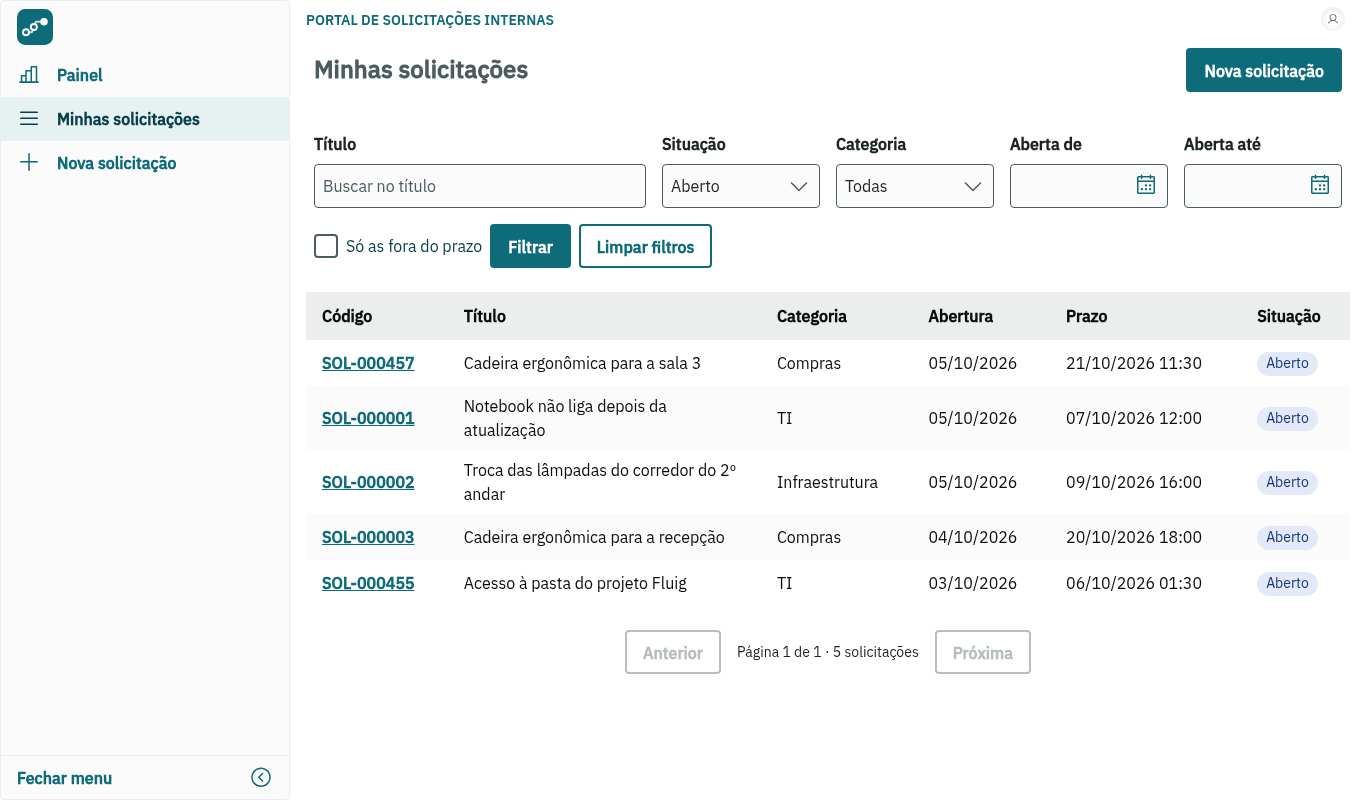
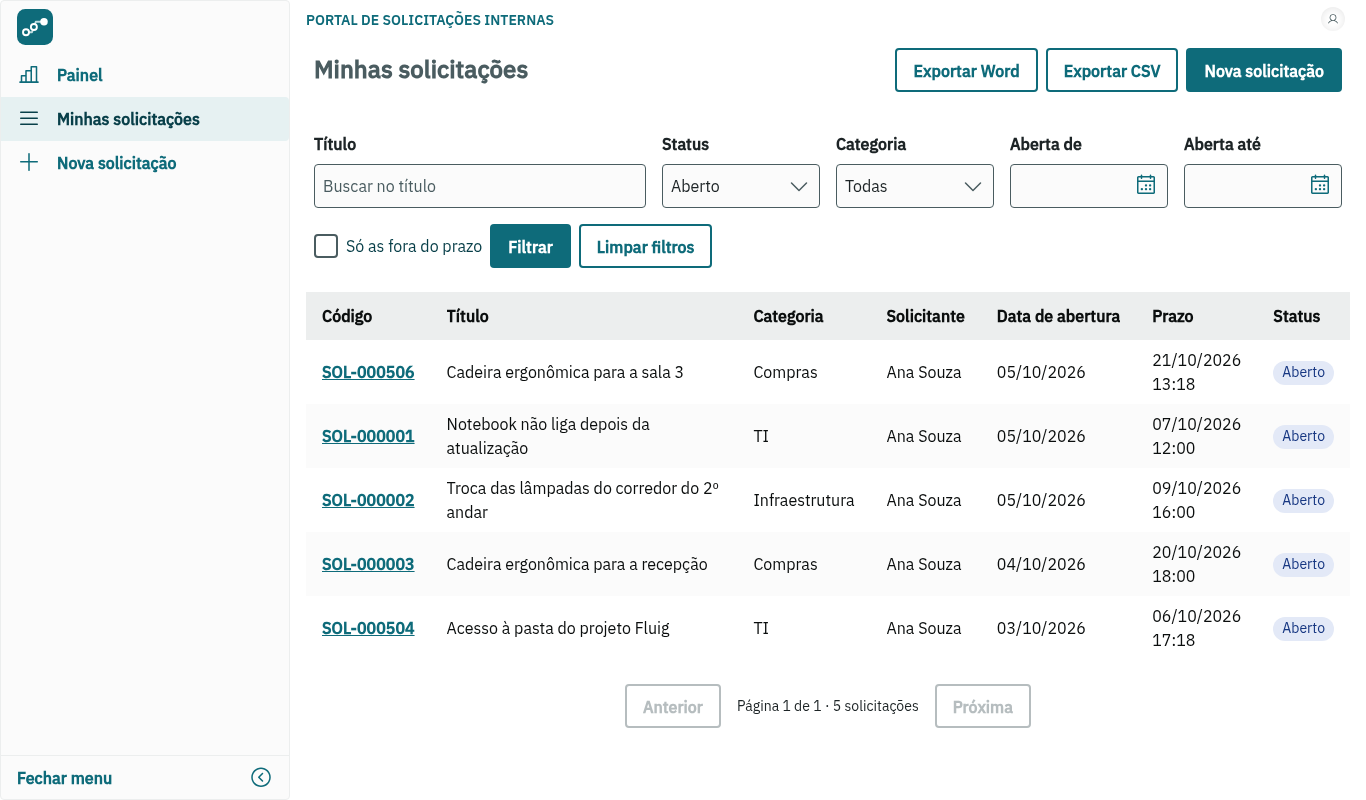
docs: name the README sections after the assignment and state the impact of each technology
README com Pré-requisitos, Instalação, Configuração, Execução e Acesso; memorial com o impacto de cada tecnologia na manutenção ou na produtividade; evidências refeitas.

diff --git a/docs/memorial-tecnico.md b/docs/memorial-tecnico.md
@@ -40,20 +40,22 @@ As dependências escolhidas à mão têm versão exata no `package.json`.
 
 ## 3. Justificativa técnica
 
-- **TypeScript e Node.js 24 (LTS)**: uma linguagem na API e no frontend permite compartilhar schemas e tipos. C# e Java trariam um segundo ecossistema e o contrato duplicado.
-- **NestJS**: o enunciado avalia camadas, e ele traz módulo, controller, service, injeção de dependência, guards e filtros; em Express eu montaria isso sozinho. Na versão 12 o schema Zod passa em `@Body({ schema })` e gera o Swagger.
-- **PostgreSQL**: o enunciado pede banco SQL, e ele oferece o que a modelagem usa (`CHECK`, `citext`, `timestamptz`), sem licença. MySQL e SQL Server também serviriam.
-- **Prisma**: gera migrações `.sql` versionadas, que são os scripts de criação pedidos, e tipos das consultas, então coluna errada vira erro de compilação. Descartei o TypeORM (domínio e persistência misturados em decorators) e o Drizzle (sem 1.0 estável). SQL à mão só nas migrações, onde ficam os `CHECK`. Os tempos médios são calculados no TypeScript, com a função de horas úteis do prazo.
-- **Zod em `shared/`**: API e formulário validam com o mesmo schema e a mesma mensagem; o `class-validator` só roda no backend. Os limites são constantes (`TITLE_MAX`, `DESCRIPTION_MAX`) lidas por API, formulário e Swagger; o `CHECK` repete os números.
-- **Sessão no servidor, cookie HttpOnly e Argon2id**: com token opaco e tabela `sessions`, apagada a linha o token morre. JWT exigiria lista de revogados (já é sessão no servidor) e, no `localStorage`, ficaria ao alcance de qualquer script. Argon2id com os mínimos da OWASP (19 MiB, 2 iterações), no lugar do bcrypt.
-- **Helmet, Luxon, morgan**: cabeçalhos de segurança; fusos nas contas do prazo e do filtro por período; log de acesso.
-- **Limite de tentativas próprio** (`auth/login-throttle.ts`) em vez do `@nestjs/throttler`, que conta toda requisição: num escritório com um IP só, a sexta pessoa a entrar no minuto seria bloqueada. Aqui só erros contam, na tabela `login_failures`, valendo para todas as instâncias.
-- **Swagger** em `/api/docs`, gerado dos schemas Zod; desligado com `SWAGGER_ENABLED=false` em ambiente exposto.
-- **Angular**: citado na vaga e base do PO UI; traz roteamento, formulários, HTTP e injeção de dependência, sem montar o conjunto como em React. Usei componentes standalone, signals e Reactive Forms. Fiquei na 21 porque o PO UI não suporta a 22.
-- **PO UI**: biblioteca da TOTVS, usada em todas as telas. O custo é o tamanho: 3,6 MB no pacote inicial, cerca de 700 kB com gzip. O visual vem das variáveis CSS do tema (`src/styles.scss`). Corrigi os defeitos de acessibilidade por cima, com ARIA e diretivas (`core/po-a11y.ts`, `core/field-a11y.ts`), sem trocar componente.
-- **Vitest, Supertest, Testcontainers**: o Vitest é o padrão do NestJS 12 e do Angular 21. Os e2e sobem um PostgreSQL 18 descartável com as migrações reais, em vez de banco em memória ou mocks do Prisma; o custo é precisar do Docker.
-- **Biome, angular-eslint, Prettier**: o Biome cobre backend e `shared/`, mas não analisa templates do Angular, onde uso angular-eslint e Prettier. O workspace pnpm mantém os três pacotes com comando único de lint, tipos, testes e build.
-- **Docker Compose e nginx**: o `compose.yaml` sobe banco, depois API (migrações e seed; a verificação de saúde dá até dois minutos) e depois web. O nginx serve o frontend com gzip, encaminha `/api` (mesma origem) e dá cache de um ano aos `.js` e `.css` com hash. Portas só em `127.0.0.1`; a API não publica porta.
+Para cada tecnologia: motivo da escolha, benefício neste projeto, alternativa descartada e impacto na manutenção, na escalabilidade ou na produtividade.
+
+- **TypeScript e Node.js 24 (LTS)**: uma linguagem na API e no frontend permite compartilhar schemas e tipos. C# e Java trariam um segundo ecossistema e o contrato duplicado. Impacto: um erro de contrato entre API e tela aparece na compilação, não em uso.
+- **NestJS**: o enunciado avalia camadas, e ele traz módulo, controller, service, injeção de dependência, guards e filtros; em Express eu montaria isso sozinho. Na versão 12 o schema Zod passa em `@Body({ schema })` e gera o Swagger. Impacto na manutenção: quem conhece o framework acha cada coisa no lugar esperado.
+- **PostgreSQL**: o enunciado pede banco SQL, e ele oferece o que a modelagem usa (`CHECK`, `citext`, `timestamptz`), sem licença. MySQL e SQL Server também serviriam. Impacto: as regras valem até para quem grava direto por SQL, e o banco escala bem além do volume deste portal.
+- **Prisma**: gera migrações `.sql` versionadas, que são os scripts de criação pedidos, e tipos das consultas, então coluna errada vira erro de compilação. Descartei o TypeORM (domínio e persistência misturados em decorators) e o Drizzle (sem 1.0 estável). SQL à mão só nas migrações, onde ficam os `CHECK`. Os tempos médios são calculados no TypeScript, com a função de horas úteis do prazo. Impacto: toda mudança de schema vira uma migração versionada, que dá para revisar.
+- **Zod em `shared/`**: API e formulário validam com o mesmo schema e a mesma mensagem; o `class-validator` só roda no backend. Os limites são constantes (`TITLE_MAX`, `DESCRIPTION_MAX`) lidas por API, formulário e Swagger; o `CHECK` repete os números. Impacto na manutenção: cada regra de validação muda em um lugar só.
+- **Sessão no servidor, cookie HttpOnly e Argon2id**: com token opaco e tabela `sessions`, apagada a linha o token morre. JWT exigiria lista de revogados (já é sessão no servidor) e, no `localStorage`, ficaria ao alcance de qualquer script. Argon2id com os mínimos da OWASP (19 MiB, 2 iterações), no lugar do bcrypt. Impacto: encerrar um acesso é apagar uma linha; o custo é uma consulta ao banco por requisição.
+- **Helmet, Luxon, morgan**: cabeçalhos de segurança; fusos nas contas do prazo e do filtro por período; log de acesso. Impacto: menos código próprio para manter em pontos fáceis de errar.
+- **Limite de tentativas próprio** (`auth/login-throttle.ts`) em vez do `@nestjs/throttler`, que conta toda requisição: num escritório com um IP só, a sexta pessoa a entrar no minuto seria bloqueada. Aqui só erros contam, na tabela `login_failures`, valendo para todas as instâncias. Impacto: uma classe pequena a mais para manter.
+- **Swagger** em `/api/docs`, gerado dos schemas Zod; desligado com `SWAGGER_ENABLED=false` em ambiente exposto. Impacto: a documentação não desatualiza, porque sai dos mesmos schemas.
+- **Angular**: citado na vaga e base do PO UI; traz roteamento, formulários, HTTP e injeção de dependência, sem montar o conjunto como em React. Usei componentes standalone, signals e Reactive Forms. Fiquei na 21 porque o PO UI não suporta a 22. Impacto na produtividade: o conjunto já vem integrado e com um jeito padrão de organizar o código.
+- **PO UI**: biblioteca da TOTVS, usada em todas as telas. O custo é o tamanho: 3,6 MB no pacote inicial, cerca de 700 kB com gzip. O visual vem das variáveis CSS do tema (`src/styles.scss`). Corrigi os defeitos de acessibilidade por cima, com ARIA e diretivas (`core/po-a11y.ts`, `core/field-a11y.ts`), sem trocar componente. Impacto: telas montadas com componentes prontos no padrão TOTVS; em troca, dependo do ritmo de correções da biblioteca.
+- **Vitest, Supertest, Testcontainers**: o Vitest é o padrão do NestJS 12 e do Angular 21. Os e2e sobem um PostgreSQL 18 descartável com as migrações reais, em vez de banco em memória ou mocks do Prisma; o custo é precisar do Docker. Impacto: os testes pegam erro de SQL e de migração que um mock esconderia.
+- **Biome, angular-eslint, Prettier**: o Biome cobre backend e `shared/`, mas não analisa templates do Angular, onde uso angular-eslint e Prettier. O workspace pnpm mantém os três pacotes com comando único de lint, tipos, testes e build. Impacto: o estilo é decidido pela ferramenta, sem discussão em revisão.
+- **Docker Compose e nginx**: o `compose.yaml` sobe banco, depois API (migrações e seed; a verificação de saúde dá até dois minutos) e depois web. O nginx serve o frontend com gzip, encaminha `/api` (mesma origem) e dá cache de um ano aos `.js` e `.css` com hash. Portas só em `127.0.0.1`; a API não publica porta. Impacto: o ambiente de quem avalia é igual ao meu.
 - **csv-stringify e docx**: geram os arquivos da exportação. Escrever CSV à mão erra em aspas e quebras de linha, e o formato do Word é um zip de XML; as duas bibliotecas são as mais usadas para isso no Node.
 - **Render (opcional)**: o `render.yaml` publica no plano gratuito, que oferece um serviço só. Por isso a última etapa de `backend/Dockerfile` gera uma imagem em que a API também entrega as telas (`WEB_ROOT`). No compose nada muda: as telas continuam no nginx.
 - **GitHub Actions**: lint, tipos, testes unitários, e2e e build em cada pull request e push na `main`.
@@ -165,7 +167,7 @@ Testes: cada um parte de uma regra do sistema. São 42 da API contra PostgreSQL 
 | Fora do prazo | Não concluída e vencida; cartão no painel e filtro na lista | Mostra o que pede ação agora; "Atrasada" destoaria dos status "Aberto" e "Em Atendimento" |
 | Concluídas fora do prazo | Concluídas depois do prazo; cartão próprio | Mede o prazo cumprido, que "Fora do prazo" deixa de contar |
 | Tempos médios | Até o início (abertura a Em Atendimento) e até a conclusão (abertura a Concluído), em horas úteis: aberta na sexta às 17h e iniciada na segunda às 9h esperou 2 h, não 64 h. API com uma casa decimal; tela "N h úteis" (sem converter em dias: 24 h úteis são mais de dois dias de expediente) ou "Sem dados" | Separam a espera pela primeira resposta do total |
-| Painel | Oito números (total, um por status, fora do prazo, concluídas fora do prazo, dois tempos médios) e dois gráficos (`po-chart`): por situação e por categoria. No escopo de quem vê; cartões de situação e de fora do prazo abrem a lista filtrada | Cada perfil vê os seus números |
+| Painel | Oito números (total, um por status, fora do prazo, concluídas fora do prazo, dois tempos médios) e dois gráficos (`po-chart`): por status e por categoria. No escopo de quem vê; cartões de situação e de fora do prazo abrem a lista filtrada | Cada perfil vê os seus números |
 | Exportação | A lista pode ser baixada em CSV ou Word, com os filtros da tela e todas as páginas (até 1.000 linhas), no escopo de quem pede | O CSV usa ponto e vírgula e BOM, que o Excel em português abre direto |
 | Categoria inexistente ou inativa | 400 apontando `categoryId` | Erro de preenchimento, indicável no campo |
 | Filtro por período | Datas em `APP_TIMEZONE` (padrão `America/Fortaleza`); último dia inteiro | O banco guarda UTC; sem conversão, uma abertura às 22h cairia no dia seguinte |

diff --git a/README.md b/README.md
@@ -12,9 +12,18 @@ Documentação complementar:
 - [Dicionário de Dados](docs/dicionario-de-dados.md)
 - Scripts SQL de criação do banco, aplicados em ordem: [`20260930102819_init`](backend/prisma/migrations/20260930102819_init/migration.sql), [`20261005084126_integrity_and_indexes`](backend/prisma/migrations/20261005084126_integrity_and_indexes/migration.sql) e [`20261005120000_assignee_timezone_login_failures`](backend/prisma/migrations/20261005120000_assignee_timezone_login_failures/migration.sql)
 
-## Executar com Docker (recomendado)
+## Pré-requisitos
 
-Pré-requisito: Docker com Docker Compose v2. As portas 8080 e 5432 precisam estar livres.
+| Item | Versão | Observação |
+| --- | --- | --- |
+| Linguagem | TypeScript sobre Node.js 24 | API e frontend |
+| Banco de dados | PostgreSQL 18 | |
+| Dependências | pnpm 12 | Com o Node instalado: `corepack enable`. As bibliotecas vêm com `pnpm install` |
+| Docker com Docker Compose v2 | | Opcional: com ele, nenhum dos itens acima precisa estar instalado |
+
+## Instalação e execução com Docker (recomendado)
+
+As portas 8080 e 5432 precisam estar livres.
 
 ```bash
 git clone https://github.com/Lucasfarg/portal-solicitacoes.git
@@ -30,15 +39,56 @@ As portas são publicadas só em `127.0.0.1`: o portal e o banco respondem nesta
 
 Para parar: `docker compose down`. Com `-v` o banco também é apagado.
 
+## Instalação sem Docker
+
+### Banco de dados
+
+Com um PostgreSQL local:
+
+```sql
+CREATE USER portal WITH PASSWORD 'portal';
+CREATE DATABASE portal OWNER portal;
+```
+
+Ou use só o banco do compose: `docker compose up -d --wait db`.
+
+Crie o arquivo de configuração e, se o seu banco tiver outro usuário, senha ou porta, ajuste `DATABASE_URL` nele:
+
+```bash
+cp .env.example .env
+```
+
+### Backend e frontend
+
+Os dois ficam no mesmo workspace: um comando instala as dependências de ambos. Os seguintes criam as tabelas (migrações SQL) e os dados de demonstração.
+
+```bash
+pnpm install
+pnpm build:shared
+pnpm --filter backend db:deploy
+pnpm --filter backend db:seed
+```
+
+## Execução
+
+Cada um em um terminal:
+
+```bash
+pnpm dev:api    # backend: API em http://localhost:3000/api
+pnpm dev:web    # frontend: portal em http://localhost:4200
+```
+
+O servidor de desenvolvimento do Angular encaminha `/api` para a API, então o Swagger também responde em <http://localhost:4200/api/docs>.
+
 ## Acesso
 
-| O quê | Endereço |
-| --- | --- |
-| Portal | <http://localhost:8080> |
-| Documentação interativa da API (Swagger) | <http://localhost:8080/api/docs> |
-| Verificação de saúde da API | <http://localhost:8080/api/health> |
+| O quê | Com Docker | Sem Docker |
+| --- | --- | --- |
+| Portal | <http://localhost:8080> | <http://localhost:4200> |
+| Documentação interativa da API (Swagger) | <http://localhost:8080/api/docs> | <http://localhost:4200/api/docs> |
+| Verificação de saúde da API | <http://localhost:8080/api/health> | <http://localhost:3000/api/health> |
 
-Usuários de demonstração, todos com a senha `Senha@123`:
+Usuários de teste, todos com a senha `Senha@123`:
 
 | Usuário | Perfil | O que pode fazer |
 | --- | --- | --- |
@@ -50,52 +100,9 @@ Num banco vazio, o seed cria também dez solicitações de exemplo da `ana` e do
 
 Para testar pelo Swagger, execute primeiro `POST /api/auth/login`: o navegador guarda o cookie de sessão e as demais rotas passam a responder.
 
-## Executar sem Docker
-
-Pré-requisitos:
-
-| Item | Versão |
-| --- | --- |
-| Node.js | 24 |
-| pnpm | 12 (com o Node instalado: `corepack enable`) |
-| PostgreSQL | 18 |
-
-1. Crie o banco. Com um PostgreSQL local:
-
-   ```sql
-   CREATE USER portal WITH PASSWORD 'portal';
-   CREATE DATABASE portal OWNER portal;
-   ```
-
-   Ou use só o banco do compose: `docker compose up -d --wait db`.
-
-2. Crie o arquivo de configuração e, se o seu banco tiver outro usuário, senha ou porta, ajuste `DATABASE_URL` nele:
-
-   ```bash
-   cp .env.example .env
-   ```
-
-3. Instale as dependências, crie as tabelas e os dados de demonstração:
-
-   ```bash
-   pnpm install
-   pnpm build:shared
-   pnpm --filter backend db:deploy
-   pnpm --filter backend db:seed
-   ```
-
-4. Suba a API e o frontend, cada um em um terminal:
-
-   ```bash
-   pnpm dev:api    # API em http://localhost:3000/api
-   pnpm dev:web    # portal em http://localhost:4200
-   ```
-
-Acesse <http://localhost:4200>. O servidor de desenvolvimento do Angular encaminha `/api` para a API, então o Swagger também responde em <http://localhost:4200/api/docs>.
-
 ## Configuração
 
-Um único `.env` na raiz do repositório, lido pela API, pelo Prisma e pelo compose. O modelo é o `.env.example`.
+Um único `.env` na raiz do repositório, lido pela API, pelo Prisma e pelo compose. O modelo é o `.env.example`. As credenciais de demonstração estão na seção Acesso.
 
 | Variável | Padrão | Descrição |
 | --- | --- | --- |
